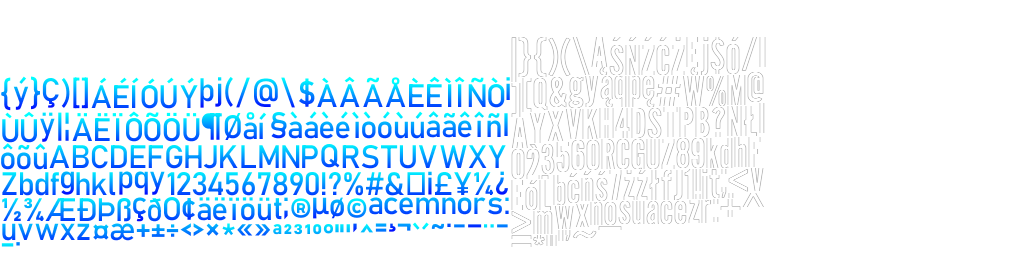
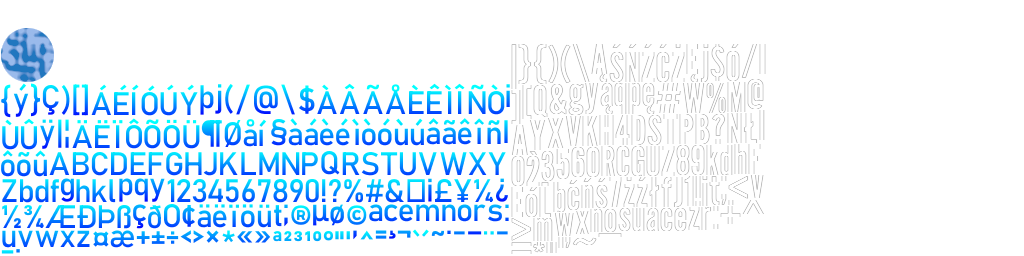
Hover works, but clicking on a planet moves it for some reason

Changed region(s): [[0.0, 0.0938, 0.75, 1.0]]

diff --git a/core/src/main/kotlin/org/liamjd/game/v3/InnerPlanets.kt b/core/src/main/kotlin/org/liamjd/game/v3/InnerPlanets.kt
@@ -1,16 +1,24 @@
 package org.liamjd.game.v3
 
 import com.badlogic.gdx.Gdx
+import com.badlogic.gdx.graphics.Color
 import com.badlogic.gdx.graphics.Texture
 import com.badlogic.gdx.graphics.g2d.Animation
+import com.badlogic.gdx.graphics.g2d.Batch
 import com.badlogic.gdx.graphics.g2d.TextureRegion
+import com.badlogic.gdx.graphics.glutils.ShapeRenderer
+import com.badlogic.gdx.graphics.glutils.ShapeRenderer.ShapeType
 import com.badlogic.gdx.scenes.scene2d.Actor
+import com.badlogic.gdx.scenes.scene2d.InputEvent
 import com.badlogic.gdx.scenes.scene2d.Stage
 import com.badlogic.gdx.scenes.scene2d.ui.Image
 import com.badlogic.gdx.scenes.scene2d.ui.Label
 import com.badlogic.gdx.scenes.scene2d.ui.Skin
+import com.badlogic.gdx.scenes.scene2d.utils.ClickListener
 import com.badlogic.gdx.utils.Align
 import ktx.actors.onClick
+import ktx.actors.onClickEvent
+import ktx.actors.onTouchUp
 import ktx.actors.plusAssign
 import ktx.scene2d.*
 import org.liamjd.game.v3.actors.*
@@ -28,11 +36,15 @@ class InnerPlanets(game: Version3, stage: Stage, skin: Skin) : AbstractGameplayS
 	lateinit var animatedPlanet: AnimationActor
 	lateinit var animatedPlanet2: AnimationActor
 
+	var shape: ShapeRenderer = ShapeRenderer()
+
 	override fun show() {
 		Scene2DSkin.defaultSkin = skin
 
 		// create a custom actor for displaying a texture image
 		val backgroundActor = TextureActor(Texture(Gdx.files.internal("ui/starfield.png")))
+
+		val bluePlanetActor = TextureActor(Texture(Gdx.files.internal("ui/planet64.png")))
 
 		// Load the sprite sheet as a Texture
 		val redPlanetTextureSheet = Texture(Gdx.files.internal("ui/red-planet-spritesheet.png"))
@@ -51,41 +63,40 @@ class InnerPlanets(game: Version3, stage: Stage, skin: Skin) : AbstractGameplayS
 			}
 		}
 
-
-		// Initialize the Animation with the frame interval and array of frames
-//		animatedPlanet = AnimationActor(Animation<TextureRegion>(0.5f, redPlanetFrames), 0.15f, 0.15f)
-//		animatedPlanet2 = AnimationActor(Animation<TextureRegion>(0.1f, redPlanetFrames), 0.45f, 0.45f)
+		bluePlanetActor.name = "Blue planet"
+		bluePlanetActor.setPosition(stage.width - 400f, (stage.height / 2f))
+		// still don't understand this
+		bluePlanetActor.addListener(object : ClickListener() {
+			override fun clicked(event: InputEvent, x: Float, y: Float) {
+				println("Blue planet clicked")
+			}
+		})
 		val planet1Label = Label("Small planet",skin)
 		val planet2Label = Label("Large planet",skin)
-//		animatedPlanet.setPosition(stage.width - 300f, ((stage.height / 2) - (redPlanetHeight * animatedPlanet.yScale) / 2))
-//		animatedPlanet2.setPosition(stage.width - 200f, ((stage.height / 2) - (redPlanetHeight * animatedPlanet2.yScale) / 2))
 //		planet1Label.setPosition(animatedPlanet.x,stage.height - 400f)
 //		planet2Label.setPosition(animatedPlanet2.x,stage.height - 400f)
 
 
 		// add an actor to the stage directly
 		stage += backgroundActor
-//		stage += animatedPlanet
 //		stage += planet1Label
 //		stage += planet2Label
-//		stage += animatedPlanet2
+		stage += bluePlanetActor
 
-//		animatedPlanet.setBounds(animatedPlanet.x,animatedPlanet.y,100f,100f)
-		/*animatedPlanet.addListener(object : ClickListener() {
-			override fun clicked(event: InputEvent?, x: Float, y: Float) {
-				println("Clicked on planet 1: event: ${event} at $x,$y")
+		// horizontal centre line
+		stage.addActor(object : Actor() {
+			override fun draw(batch: Batch?, parentAlpha: Float) {
+				if(batch != null) {
+					batch.end()
+					shape.setProjectionMatrix(stage.camera.combined)
+					shape.begin(ShapeType.Line)
+					shape.setColor(Color.RED)
+					shape.rect(0f, stage.height / 2f, stage.width, 1f)
+					shape.end()
+					batch.begin()
+				}
 			}
-
-			override fun enter(event: InputEvent?, x: Float, y: Float, pointer: Int, fromActor: Actor?) {
-				println("Entered planet 1: $event $x,$y pointer $pointer fromActor: $fromActor")
-			}
-
-			override fun exit(event: InputEvent?, x: Float, y: Float, pointer: Int, toActor: Actor?) {
-				println("Left planet 1: $event $x,$y pointer $pointer toActor: $toActor")
-			}
-		})*/
-
-//		stage += planet
+		})
 
 		stage.actors {
 
@@ -100,8 +111,26 @@ class InnerPlanets(game: Version3, stage: Stage, skin: Skin) : AbstractGameplayS
 				onExit {
 					resetZoom()
 				}
-
 			}
+
+			animation(name = "Planet 2", animation =  Animation<TextureRegion>(0.5f, redPlanetFrames) ,xScale = 0.4f, yScale = 0.4f) {
+				setPosition(stage.width - 300f, ((stage.height / 2) - (redPlanetHeight * this.yScale) / 2))
+				onClickEvent { event, actor ->
+					println("onClick x,y: $x,$y - stageX,stageY: ${event.stageX},${event.stageY}")
+				}
+//				onClick {
+//					println("Clicked on ${this.name}")
+//				}
+				onEnter {
+					println("onEnter x,y $x,$y")
+					zoom()
+				}
+				onTouchUp { println("onTouchUp x,y $x,$y") }
+				onExit {
+					resetZoom()
+				}
+			}
+
 			table {
 //				debug()
 				setFillParent(true) // for the primary layout

diff --git a/core/src/main/kotlin/org/liamjd/game/v3/actors/AnimationActor.kt b/core/src/main/kotlin/org/liamjd/game/v3/actors/AnimationActor.kt
@@ -1,53 +1,47 @@
 package org.liamjd.game.v3.actors
 
+import com.badlogic.gdx.graphics.Color
 import com.badlogic.gdx.graphics.g2d.Animation
 import com.badlogic.gdx.graphics.g2d.Batch
 import com.badlogic.gdx.graphics.g2d.TextureRegion
-import com.badlogic.gdx.math.Vector2
+import com.badlogic.gdx.graphics.glutils.ShapeRenderer
 import com.badlogic.gdx.scenes.scene2d.Actor
-import com.badlogic.gdx.scenes.scene2d.InputEvent
-import com.badlogic.gdx.scenes.scene2d.InputListener
 import ktx.scene2d.RootWidget
 import ktx.scene2d.Scene2dDsl
 import kotlin.contracts.ExperimentalContracts
 import kotlin.contracts.InvocationKind
 import kotlin.contracts.contract
 
-class AnimationActor(name: String, val animation: Animation<TextureRegion>, var xScale: Float, var yScale: Float) : Actor() {
+class AnimationActor(name: String, val animation: Animation<TextureRegion>, val xScale: Float, val yScale: Float) : Actor() {
 
 	lateinit var currentRegion: TextureRegion
 	var time = 0f
 	private val frameWidth = animation.getKeyFrame(0f).regionWidth.toFloat()
 	private val frameHeight = animation.getKeyFrame(0f).regionHeight.toFloat()
-	private val initialXScale: Float
-	private val initialYScale: Float
-	private var initialX: Float = 0f
-	private var initialY: Float = 0f
+	private var hover: Boolean = false
+	val haloRenderer = ShapeRenderer()
 
 	init {
+		debug()
 		println("Initialising animation $name")
 		setName(name)
 		setScale(xScale,yScale)
 		setBounds(this.x,this.y,frameWidth,frameHeight)
-		initialXScale = xScale
-		initialYScale = yScale
-
 	}
 
-	fun zoom() {
-		val middlePoint=  Vector2(x+width/2, y+height/2)
-		xScale = xScale * 1.1f
-		yScale = yScale * 1.1f
-		moveBy(-initialX*0.9f,-initialY*0.9f)
 
-//		setPosition(initialX-frameWidth,initialY-frameHeight)
+	fun zoom() {
+		hover = true
+		scaleBy(0.05f)
+		x = x - 10f
+		y = y - 10f
 	}
 
 	fun resetZoom() {
-		xScale = initialXScale
-		yScale = initialYScale
-		moveBy(initialX*1.1f,initialY*1.1f)
-//		setPosition(initialX,initialY)
+		hover = false
+		setScale(xScale,yScale)
+		x = x + 10f
+		y = y +10f
 	}
 
 	//... creating animation etc...
@@ -57,9 +51,17 @@ class AnimationActor(name: String, val animation: Animation<TextureRegion>, var 
 	}
 
 	override fun draw(batch: Batch, parentAlpha: Float) {
-//		super.draw(batch, parentAlpha)
+		if(hover) {
+			batch.end()
+			haloRenderer.setProjectionMatrix(stage.camera.combined)
+			haloRenderer.begin(ShapeRenderer.ShapeType.Line)
+			haloRenderer.setColor(Color.WHITE)
+			haloRenderer.circle(x + (width*scaleX / 2f),y + (height*scaleY / 2f),((width * scaleX) / 2f))
+			haloRenderer.end()
+			batch.begin()
+		}
 
-		batch.draw(currentRegion, x, y, currentRegion.regionWidth * xScale, currentRegion.regionHeight * yScale)
+		batch.draw(currentRegion, x, y, currentRegion.regionWidth * scaleX, currentRegion.regionHeight * scaleY)
 	}
 
 }
@@ -75,18 +77,3 @@ fun RootWidget.animation(name: String, animation: Animation<TextureRegion>,
 	return storeActor(AnimationActor(name,animation,xScale, yScale)).apply(init)
 }
 
-inline fun Actor.onEnter(crossinline listener: () -> Unit): InputListener {
-	val enterListener = object : InputListener() {
-		override fun enter(event: InputEvent?, x: Float, y: Float, pointer: Int, fromActor: Actor?)= listener()
-	}
-	this.addListener(enterListener)
-	return enterListener
-}
-
-inline fun Actor.onExit(crossinline listener: () -> Unit): InputListener {
-	val exitListener = object : InputListener() {
-		override fun exit(event: InputEvent?, x: Float, y: Float, pointer: Int, fromActor: Actor?) = listener()
-	}
-	this.addListener(exitListener)
-	return exitListener
-}

diff --git a/core/src/main/kotlin/org/liamjd/game/v3/actors/ActorExtensions.kt b/core/src/main/kotlin/org/liamjd/game/v3/actors/ActorExtensions.kt
@@ -1,0 +1,21 @@
+package org.liamjd.game.v3.actors
+
+import com.badlogic.gdx.scenes.scene2d.Actor
+import com.badlogic.gdx.scenes.scene2d.InputEvent
+import com.badlogic.gdx.scenes.scene2d.InputListener
+
+inline fun AnimationActor.onEnter(crossinline listener: () -> Unit): InputListener {
+	val enterListener = object : InputListener() {
+		override fun enter(event: InputEvent?, x: Float, y: Float, pointer: Int, fromActor: Actor?)= listener()
+	}
+	this.addListener(enterListener)
+	return enterListener
+}
+
+inline fun AnimationActor.onExit(crossinline listener: () -> Unit): InputListener {
+	val exitListener = object : InputListener() {
+		override fun exit(event: InputEvent?, x: Float, y: Float, pointer: Int, fromActor: Actor?) = listener()
+	}
+	this.addListener(exitListener)
+	return exitListener
+}
